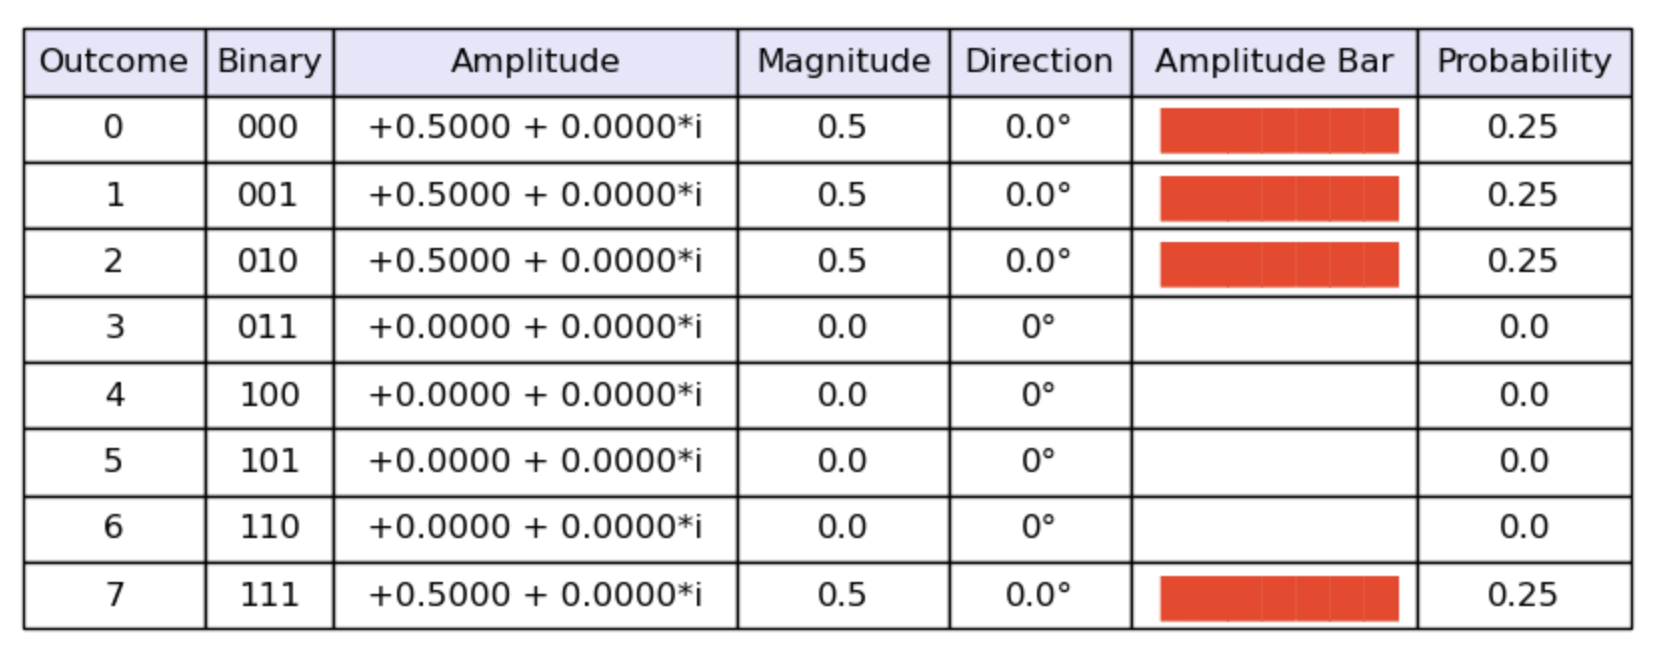
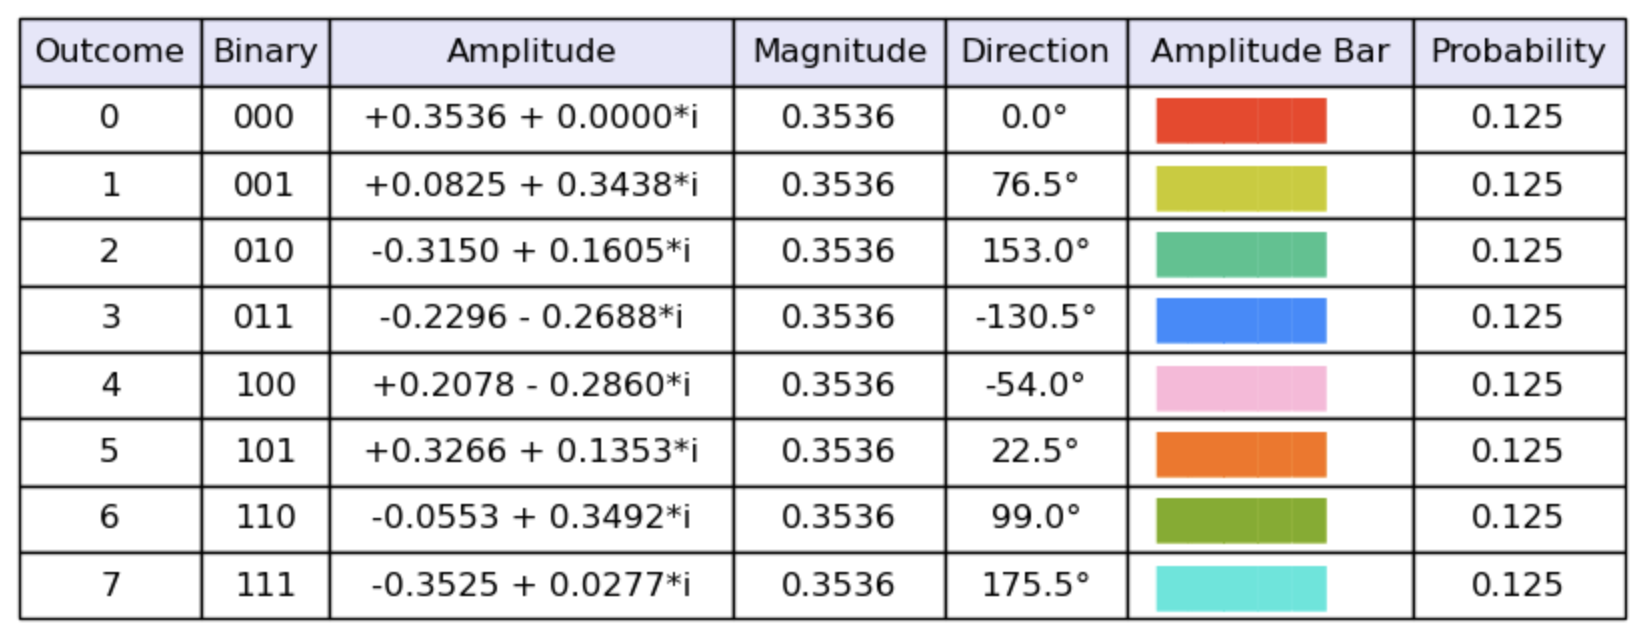
changing example in readme

diff --git a/README.md b/README.md
@@ -37,14 +37,25 @@ Running an example circuit using our Python simulator:
 
 ```
 from sim_circuit import QuantumRegister, QuantumCircuit
+from math import pi
 
-q = QuantumRegister(3)
-qc = QuantumCircuit(q)
+def geometric_sequence_circuit(n, v):
+    theta = v*2*pi/2**n
 
-qc.h(q[0])
-qc.h(q[1])
-qc.mcx([q[0], q[1]], q[2])
+    q = QuantumRegister(n)
+    qc = QuantumCircuit(q)
 
+    for j in range(n):
+        qc.h(q[j])
+
+    for j in range(n):
+        qc.p(2 ** j * theta, q[j])
+
+    return qc
+    
+n = 3
+v = 1.7
+qc = geometric_sequence_circuit(n, v)
 state = qc.run()
 ```
 
@@ -67,13 +78,23 @@ def run(self):
 
 setattr(QuantumCircuit, 'run', run)
 
-q = QuantumRegister(3)
-qc = QuantumCircuit(q)
+def geometric_sequence_circuit(n, v):
+    theta = v*2*pi/2**n
 
-qc.h(q[0])
-qc.h(q[1])
-qc.mcx([q[0], q[1]], q[2])
+    q = QuantumRegister(n)
+    qc = QuantumCircuit(q)
 
+    for j in range(n):
+        qc.h(q[j])
+
+    for j in range(n):
+        qc.p(2 ** j * theta, q[j])
+
+    return qc
+    
+n = 3
+v = 1.7
+qc = geometric_sequence_circuit(n, v)
 state = qc.run()
 ```
 
